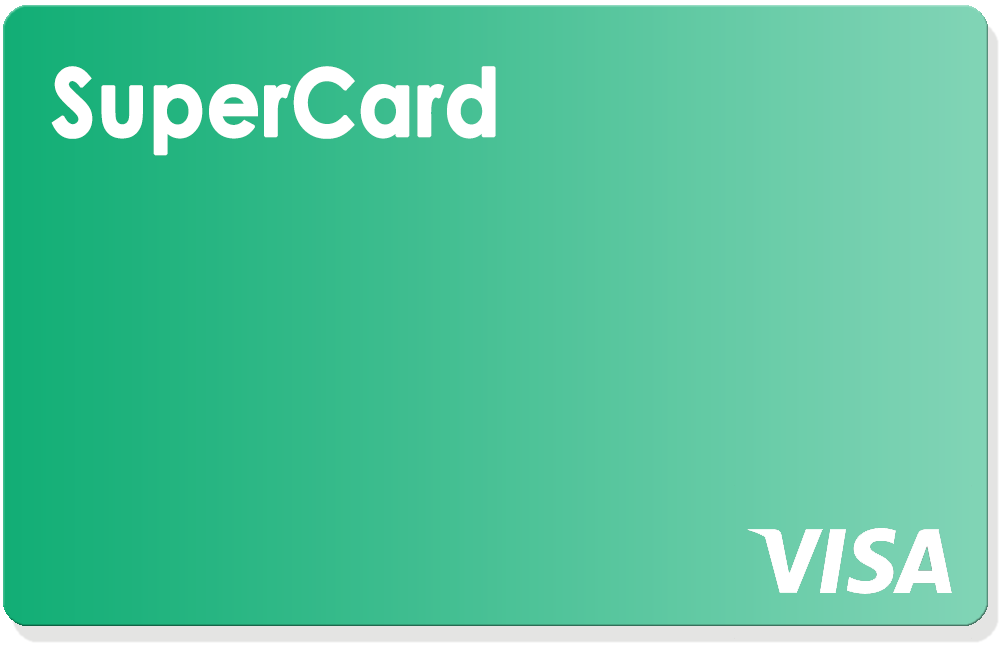
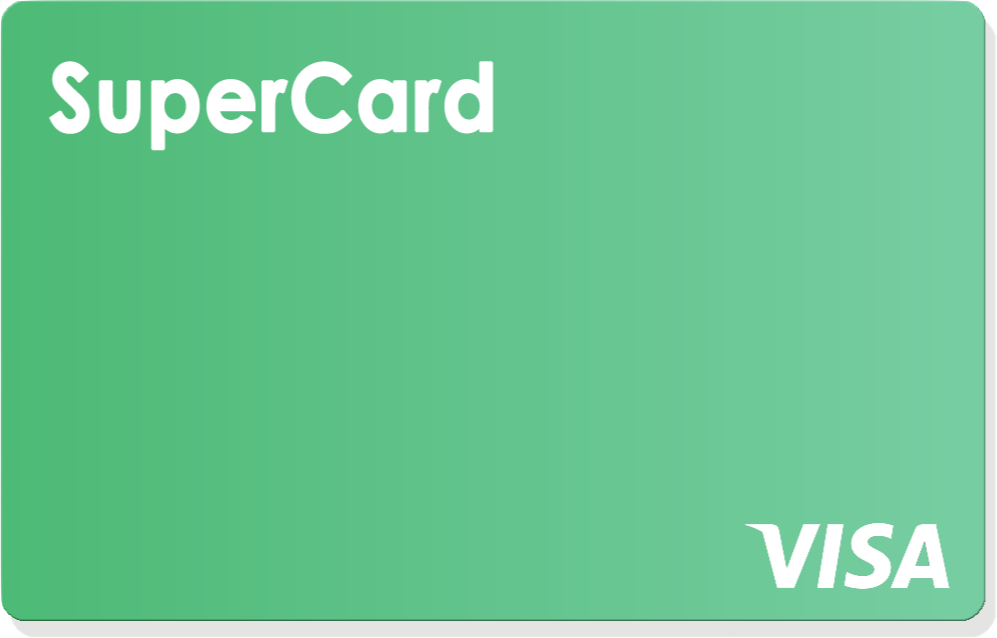
lastcommitoftheday

diff --git a/lib/view/home_page.dart b/lib/view/home_page.dart
@@ -31,7 +31,6 @@ class _HomePageState extends State<HomePage> {
             size: 30.0,
           ),
         ),
-
         Container(
           padding: EdgeInsets.fromLTRB(10, 0, 10, 0),
           //color: Colors.grey,
@@ -43,7 +42,6 @@ class _HomePageState extends State<HomePage> {
         ),
         SizedBox(height: 10),
         Center(
-<<<<<<< HEAD
           child: Image.asset('assets/images/sc_card_g.png'),
           // Container(
           //   padding: EdgeInsets.fromLTRB(10, 10, 10, 10),
@@ -67,30 +65,6 @@ class _HomePageState extends State<HomePage> {
           //             blurRadius: 4.0)
           //       ]),
           // ),
-=======
-          child: Container(
-            padding: EdgeInsets.fromLTRB(10, 10, 10, 10),
-            // margin: EdgeInsets.only(top: 50.0, left: 120.0), //容器外填充
-            constraints:
-                BoxConstraints.tightFor(width: 370.0, height: 226), //卡片大小
-            decoration: BoxDecoration(
-                borderRadius: BorderRadius.all(Radius.circular(12)),
-                //背景装饰
-                gradient: LinearGradient(
-                  //背景径向渐变
-                  colors: [Colors.green, Colors.green[300]],
-                  //center: Alignment.centerLeft,
-                  //radius: .98
-                ),
-                boxShadow: [
-                  //卡片阴影
-                  BoxShadow(
-                      color: Colors.black54,
-                      offset: Offset(2.0, 2.0),
-                      blurRadius: 4.0)
-                ]),
-          ),
->>>>>>> 3d6c0a24bfdfaf4cc8cc712dc7f2cf6a41fed218
         ),
         SizedBox(height: 15),
         Container(
@@ -110,15 +84,14 @@ class _HomePageState extends State<HomePage> {
                   style: Theme.of(context).textTheme.caption,
                   children: <InlineSpan>[
                     WidgetSpan(
-                        alignment: PlaceholderAlignment.middle,
-                        // baseline: TextBaseline.alphabetic,
-                        child:               Text(
-                          '11,500',
-                          style: Theme.of(context).textTheme.headline4,
-                          textAlign: TextAlign.left,
-                        ),
-                        ),
-
+                      alignment: PlaceholderAlignment.middle,
+                      // baseline: TextBaseline.alphabetic,
+                      child: Text(
+                        '11,500',
+                        style: Theme.of(context).textTheme.headline4,
+                        textAlign: TextAlign.left,
+                      ),
+                    ),
                   ],
                 ),
               ),
@@ -176,7 +149,6 @@ class _HomePageState extends State<HomePage> {
         SizedBox(
           height: 30,
         ),
-
         Center(
           child: Container(
             //color: Colors.amber,
